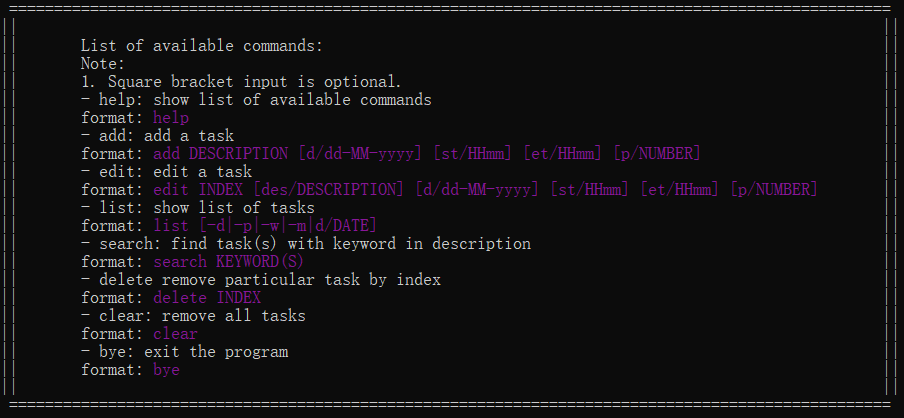
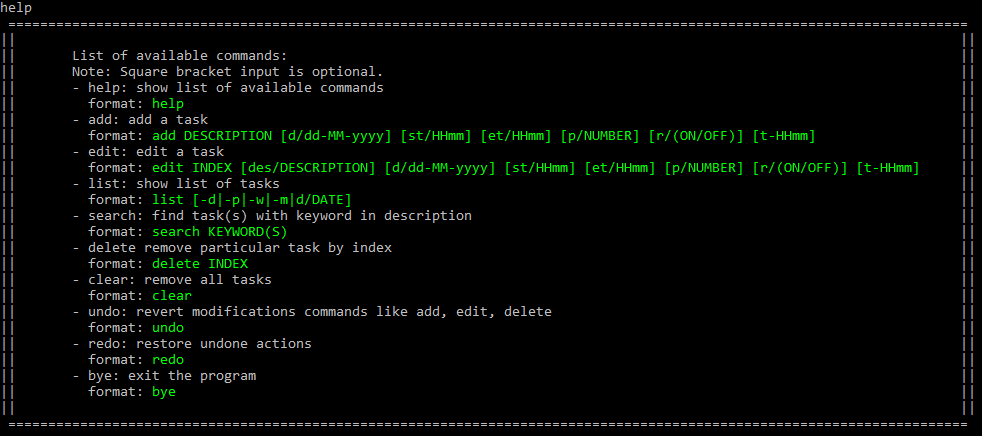
Update help message and image.

Changed region(s): [[0.0619, 0.0933, 0.9292, 0.933], [0.0, 0.0, 1.0, 0.9952]]

diff --git a/src/main/java/seedu/messages/Messages.java b/src/main/java/seedu/messages/Messages.java
@@ -43,37 +43,39 @@ public class Messages {
     public static final String HELP_MESSAGE = HELP_BORDER + LS
             + HELP_BORDER_SPACE + LS
             + HELP_PREFIX + "List of available commands:" + padString(' ', 84) + "||" + LS
-            + HELP_PREFIX + "Note:" + padString(' ', 106) + "||" + LS
-            + HELP_PREFIX + "1. Square bracket input is optional." + padString(' ', 75) + "||" + LS
+            + HELP_PREFIX + "Note: Square bracket input is optional." + padString(' ', 72) + "||" + LS
             + HELP_PREFIX + "- help: show list of available commands" + padString(' ', 72) + "||" + LS
-            + HELP_PREFIX + "format: " + ANSI_BRIGHT_GREEN + "help" + ANSI_RESET + padString(' ', 99)
+            + HELP_PREFIX + "  format: " + ANSI_BRIGHT_GREEN + "help" + ANSI_RESET + padString(' ', 97)
             + "||" + LS + HELP_PREFIX + "- add: add a task" + padString(' ', 94) + "||" + LS
-            + HELP_PREFIX + "format: " + ANSI_BRIGHT_GREEN
+            + HELP_PREFIX + "  format: " + ANSI_BRIGHT_GREEN
             + "add DESCRIPTION [d/dd-MM-yyyy] [st/HHmm] [et/HHmm] [p/NUMBER] [r/(ON/OFF)] [t-HHmm]"
-            + ANSI_RESET + "                    ||" + LS
+            + ANSI_RESET + "                  ||" + LS
             + HELP_PREFIX + "- edit: edit a task" + padString(' ', 92) + "||" + LS
-            + HELP_PREFIX + "format: " + ANSI_BRIGHT_GREEN
+            + HELP_PREFIX + "  format: " + ANSI_BRIGHT_GREEN
             + "edit INDEX [des/DESCRIPTION] [d/dd-MM-yyyy] [st/HHmm] [et/HHmm] [p/NUMBER] [r/(ON/OFF)] [t-HHmm]"
-            + ANSI_RESET + "       ||" + LS
+            + ANSI_RESET + "     ||" + LS
             + HELP_PREFIX + "- list: show list of tasks" + padString(' ', 85) + "||" + LS
-            + HELP_PREFIX + "format: " + ANSI_BRIGHT_GREEN + "list [-d|-p|-w|-m|d/DATE]" + ANSI_RESET
-            + padString(' ', 78) + "||" + LS
+            + HELP_PREFIX + "  format: " + ANSI_BRIGHT_GREEN + "list [-d|-p|-w|-m|d/DATE]" + ANSI_RESET
+            + padString(' ', 76) + "||" + LS
             + HELP_PREFIX + "- search: find task(s) with keyword in description"
             + padString(' ', 61) + "||" + LS
-            + HELP_PREFIX + "format: " + ANSI_BRIGHT_GREEN + "search KEYWORD(S)" + ANSI_RESET
-            + padString(' ', 86) + "||" + LS
+            + HELP_PREFIX + "  format: " + ANSI_BRIGHT_GREEN + "search KEYWORD(S)" + ANSI_RESET
+            + padString(' ', 84) + "||" + LS
             + HELP_PREFIX + "- delete remove particular task by index" + padString(' ', 71) + "||" + LS
-            + HELP_PREFIX + "format: " + ANSI_BRIGHT_GREEN + "delete INDEX" + ANSI_RESET
-            + padString(' ', 91) + "||" + LS
+            + HELP_PREFIX + "  format: " + ANSI_BRIGHT_GREEN + "delete INDEX" + ANSI_RESET
+            + padString(' ', 89) + "||" + LS
             + HELP_PREFIX + "- clear: remove all tasks" + padString(' ', 86) + "||" + LS
-            + HELP_PREFIX + "format: " + ANSI_BRIGHT_GREEN + "clear" + ANSI_RESET + padString(' ', 98)
+            + HELP_PREFIX + "  format: " + ANSI_BRIGHT_GREEN + "clear" + ANSI_RESET + padString(' ', 96)
             + "||" + LS
             + HELP_PREFIX + "- undo: revert modifications commands like add, edit, delete"
             + padString(' ', 51) + "||" + LS
-            + HELP_PREFIX + "format: " + ANSI_BRIGHT_GREEN + "undo" + ANSI_RESET + padString(' ', 99)
+            + HELP_PREFIX + "  format: " + ANSI_BRIGHT_GREEN + "undo" + ANSI_RESET + padString(' ', 97)
             + "||" + LS
+            + HELP_PREFIX + "- redo: restore undone actions" + padString(' ', 81) + "||" + LS
+            + HELP_PREFIX + "  format: " + ANSI_BRIGHT_GREEN + "redo" + ANSI_RESET
+            + padString(' ', 97) + "||" + LS
             + HELP_PREFIX + "- bye: exit the program" + padString(' ', 88) + "||" + LS
-            + HELP_PREFIX + "format: " + ANSI_BRIGHT_GREEN + "bye" + ANSI_RESET + padString(' ', 100)
+            + HELP_PREFIX + "  format: " + ANSI_BRIGHT_GREEN + "bye" + ANSI_RESET + padString(' ', 98)
             + "||" + LS + HELP_BORDER_SPACE + LS
             + HELP_BORDER + LS;
 

diff --git a/docs/UserGuide.md b/docs/UserGuide.md
@@ -131,7 +131,7 @@ Format: `help`
 
 Expected outcome:
 
-![help_command](images/Help_command.png)
+![help_command](images/help.PNG)
 
 *Figure 3. A list of available commands and their formats will be displayed.*
 
